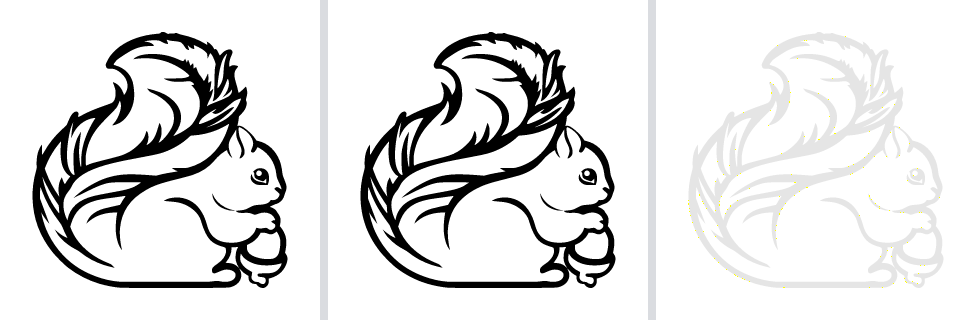
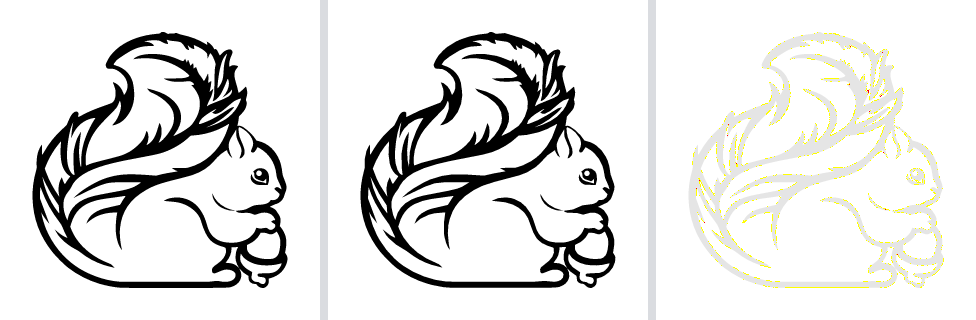
perf: simplify output rings, cutting payload 27% and generation 37%
Every point that survived curve flattening was emitted, including the
ones a boolean union left collinear. simplifyClosedRing runs RDP over
finished rings in emit.ts at 0.05 output pixels, scaled by the fit so the
error stays constant however large the icon is asked for.

  points  86,926 -> 46,477   payload  1922KB -> 1412KB
  exportToSvg on the full library  ~1230ms -> ~780ms

This is not the flattening tolerance and must not be confused with it.
That one feeds polygon-clipping, which is fragile on near-collinear
input, and gates stroke join wedges, so it decides topology. This one
only drops points from a ring whose shape is already settled.

The tolerance was swept across the whole corpus rather than borrowed:
0.02 is free but buys no time, 0.1 barely improves on 0.05, and past 0.2
the error climbs while the payload stops shrinking. The table is in the
Architecture page so the next person does not repeat the sweep.

Cost: worst shape error 0.10% -> 0.13% against a 2% gate. Six of 261
icons moved, five of them by under 0.03%; 255 are still exactly zero. The
worst, Apigee, is a ring of curved strokes where the whole diff is edge
antialiasing.

No option for this, deliberately. 0.03 percentage points is not a
decision anyone can make, and iconScale already varies point density.

Two things the sweep ruled out, both recorded: a point cap would do
nothing (no production element reaches Excalidraw's own 1,536 budget),
[…]

diff --git a/src/utils/convert/simplify.ts b/src/utils/convert/simplify.ts
@@ -1,0 +1,126 @@
+/**
+ * Ramer-Douglas-Peucker simplification of an already-closed output ring.
+ *
+ * Runs after every boolean operation, deliberately. The flattening tolerance
+ * upstream of here also feeds `polygon-clipping` - which is documented as
+ * fragile on near-collinear input - and gates stroke join wedges, so it is not
+ * an output-size knob. This is: it only ever removes points from a finished
+ * ring, and cannot change any topology decision that has already been made.
+ */
+import type { Point } from '../regions/primitives';
+
+/**
+ * How far a simplified ring may deviate from the flattened one, in output
+ * pixels at the default 48px icon size.
+ *
+ * Chosen by sweeping the whole corpus through the fidelity harness:
+ *
+ * ```
+ *   tolerance   points    payload   generation   worst shape error
+ *   0 (off)     86,926    1922 KB    ~1230 ms    0.10%
+ *   0.02        63,795    1630 KB    ~1215 ms    0.10%
+ *   0.05        46,477    1412 KB     ~780 ms    0.13%   <- here
+ *   0.10        34,150    1257 KB     ~637 ms    0.15%
+ *   0.20        27,020    1167 KB     ~587 ms    0.37%
+ * ```
+ *
+ * 0.05 is where the generation time falls off a cliff while the error is still
+ * antialiasing on curved edges rather than anything structural - 0.13% against
+ * a 2% gate. Past 0.1 the payload stops improving and the error starts
+ * climbing, so there is nothing to buy.
+ *
+ * Deliberately not exposed as an option. The difference between this and no
+ * simplification at all is 0.03 percentage points of shape error, which is
+ * invisible in the render; a control for that would be a question with no
+ * answer. `iconScale` already varies point density, because the tolerance
+ * below is divided by the fit scale.
+ */
+export const OUTPUT_SIMPLIFY_TOLERANCE_PX = 0.05;
+
+/** Perpendicular distance from `p` to the infinite line through `a` and `b`. */
+function deviation(p: Point, a: Point, b: Point): number {
+  const dx = b[0] - a[0];
+  const dy = b[1] - a[1];
+  const len = Math.hypot(dx, dy);
+  if (len === 0) return Math.hypot(p[0] - a[0], p[1] - a[1]);
+  return Math.abs((p[0] - a[0]) * dy - (p[1] - a[1]) * dx) / len;
+}
+
+/** RDP over `points[first..last]`, keeping both ends. */
+function rdp(points: Point[], first: number, last: number, tolerance: number, keep: boolean[]): void {
+  if (last <= first + 1) return;
+
+  let worst = 0;
+  let index = -1;
+  for (let i = first + 1; i < last; i++) {
+    const d = deviation(points[i], points[first], points[last]);
+    if (d > worst) {
+      worst = d;
+      index = i;
+    }
+  }
+
+  if (worst <= tolerance || index < 0) return;
+
+  keep[index] = true;
+  rdp(points, first, index, tolerance, keep);
+  rdp(points, index, last, tolerance, keep);
+}
+
+/**
+ * Simplifies a closed ring, in the ring's own units.
+ *
+ * The ring must already be closed (first point repeated as last) and is
+ * returned closed. Three invariants the emitter depends on:
+ *
+ *  - never fewer than 4 distinct-plus-closing points, because Excalidraw's
+ *    `isValidPolygon` needs more than three and our `polygon: true` claims it;
+ *  - the closing point stays exactly equal to the first, because
+ *    `isPathALoop` is what makes Excalidraw fill the shape at all;
+ *  - a zero or negative tolerance is a no-op returning the input unchanged,
+ *    so the feature being off costs nothing.
+ *
+ * The seam is split at the vertex furthest from the start rather than at the
+ * start itself. RDP fixes its two endpoints, and on a closed ring those are
+ * the same point - which makes the first bisection degenerate and biases the
+ * result towards whichever vertex the boolean engine happened to emit first.
+ */
+export function simplifyClosedRing(ring: Point[], tolerance: number): Point[] {
+  if (!(tolerance > 0) || ring.length <= 5) return ring;
+
+  // Drop the duplicated closing point; it is restored at the end.
+  const open = ring.slice(0, -1);
+  const n = open.length;
+  if (n < 4) return ring;
+
+  let far = 0;
+  let farDistance = -1;
+  for (let i = 1; i < n; i++) {
+    const d = Math.hypot(open[i][0] - open[0][0], open[i][1] - open[0][1]);
+    if (d > farDistance) {
+      farDistance = d;
+      far = i;
+    }
+  }
+
+  const keep = new Array<boolean>(n).fill(false);
+  keep[0] = true;
+  keep[far] = true;
+  rdp(open, 0, far, tolerance, keep);
+
+  // Second arc wraps past the end, so it is walked on a rotated copy.
+  const tail = [...open.slice(far), open[0]];
+  const tailKeep = new Array<boolean>(tail.length).fill(false);
+  tailKeep[0] = true;
+  tailKeep[tail.length - 1] = true;
+  rdp(tail, 0, tail.length - 1, tolerance, tailKeep);
+  for (let i = 1; i < tail.length - 1; i++) {
+    if (tailKeep[i]) keep[(far + i) % n] = true;
+  }
+
+  const out = open.filter((_, i) => keep[i]);
+  if (out.length < 4) return ring;
+
+  out.push(out[0]);
+  return out;
+}

diff --git a/src/utils/convert/simplify.test.ts b/src/utils/convert/simplify.test.ts
@@ -1,0 +1,53 @@
+import { describe, expect, it } from 'vitest';
+import { simplifyClosedRing } from './simplify';
+import type { Point } from '../regions/primitives';
+
+/** A closed ring: first point repeated as last, as the emitter produces. */
+const closed = (pts: Point[]): Point[] => [...pts, pts[0]];
+
+/** A square with `n` evenly spaced redundant points along its top edge. */
+const squareWithPaddedTop = (n: number): Point[] => {
+  const top: Point[] = Array.from({ length: n }, (_, i) => [((i + 1) * 100) / (n + 1), 0]);
+  return closed([[0, 0], ...top, [100, 0], [100, 100], [0, 100]]);
+};
+
+const isClosed = (r: Point[]) => r[0][0] === r[r.length - 1][0] && r[0][1] === r[r.length - 1][1];
+
+describe('simplifyClosedRing', () => {
+  it('drops points that sit on a straight edge', () => {
+    const result = simplifyClosedRing(squareWithPaddedTop(20), 0.01);
+    expect(result.length).toBeLessThan(8);
+    expect(isClosed(result)).toBe(true);
+  });
+
+  it('keeps a point that deviates by more than the tolerance', () => {
+    const spike = closed([[0, 0], [50, 5], [100, 0], [100, 100], [0, 100]]);
+    expect(simplifyClosedRing(spike, 1)).toHaveLength(spike.length);
+  });
+
+  it('is a no-op at zero tolerance, so the feature off costs nothing', () => {
+    const ring = squareWithPaddedTop(20);
+    expect(simplifyClosedRing(ring, 0)).toBe(ring);
+  });
+
+  it('leaves small rings alone', () => {
+    const triangle = closed([[0, 0], [10, 0], [5, 10]]);
+    expect(simplifyClosedRing(triangle, 100)).toBe(triangle);
+  });
+
+  // Both are load-bearing downstream: Excalidraw only fills a `line` when
+  // isPathALoop holds, and our `polygon: true` claims isValidPolygon, which
+  // needs more than three points.
+  it('never returns fewer than 4 points, however coarse the tolerance', () => {
+    const result = simplifyClosedRing(squareWithPaddedTop(40), 1e6);
+    expect(result.length).toBeGreaterThanOrEqual(4);
+    expect(isClosed(result)).toBe(true);
+  });
+
+  it('keeps every surviving point in its original order', () => {
+    const ring = squareWithPaddedTop(12);
+    const result = simplifyClosedRing(ring, 0.01);
+    const positions = result.slice(0, -1).map(p => ring.findIndex(q => q[0] === p[0] && q[1] === p[1]));
+    expect(positions).toEqual([...positions].sort((a, b) => a - b));
+  });
+});

diff --git a/src/utils/convert/emit.ts b/src/utils/convert/emit.ts
@@ -7,6 +7,7 @@
  */
 import type { ExcalidrawElement } from '../../types';
 import { closeRing, boundsOf } from '../svg/geometry';
+import { OUTPUT_SIMPLIFY_TOLERANCE_PX, simplifyClosedRing } from './simplify';
 import type { RawShape } from './rawShape';
 
 export function generateRandomId(): string {
@@ -128,7 +129,15 @@ export function rawShapesToElements(
     // space, where a micro-unit gap really is closed - hence 1e-6 rather than
     // the 1e-9 the boolean engine uses upstream.
     const wantsFill = !!shape.fill && shape.fill !== 'transparent';
-    const absPoints = wantsFill ? closeRing(shape.absPoints, 1e-6) : shape.absPoints;
+    const closed = wantsFill ? closeRing(shape.absPoints, 1e-6) : shape.absPoints;
+
+    // Simplified before the bounds are taken, so the element box stays tight
+    // around the points that actually survive. Tolerance converts from output
+    // units into the source's own units, the same way the flattening tolerance
+    // does, so the error stays constant in pixels at any `iconScale`.
+    const absPoints = wantsFill
+      ? simplifyClosedRing(closed, OUTPUT_SIMPLIFY_TOLERANCE_PX / scale)
+      : closed;
 
     const { minX, minY, maxX, maxY } = boundsOf(absPoints);
 

diff --git a/wiki/Architecture.md b/wiki/Architecture.md
@@ -28,7 +28,7 @@ raw SVG string
    │      resolve visibility region (clip-path + mask, intersected)
    │      FILL   -> resolveFilledRegions() -> bridgeHoles() -> ring
    │      STROKE -> strokeToRegion()       -> filled area
-   │      clip each result, emit as Excalidraw `line` / `ellipse`
+   │      clip each result, simplify the ring, emit as `line` / `ellipse`
    │
    └─ createExcalidrawItem()                  src/utils/excalidrawGenerator.ts
         card + label layout, then
@@ -196,6 +196,48 @@ tessellation.
 The old constant tolerance plus a Ramer–Douglas–Peucker pass at 0.2 user units
 (0.8 % of a 24-unit artboard) visibly polygonised every circle and got twice as
 bad each time the icon was scaled up.
+
+There *is* an RDP pass again, but at the other end of the pipeline and for a
+different reason — see §11.
+
+### 11. Output rings are simplified, after every boolean
+
+`simplifyClosedRing()` runs in `emit.ts`, on finished rings only. This is
+deliberately **not** the flattening tolerance of §6: that one feeds
+`polygon-clipping` (fragile on near-collinear input, §10) and gates stroke join
+wedges, so it changes topology decisions. This one only removes points from a
+ring whose shape is already decided, so it cannot.
+
+`OUTPUT_SIMPLIFY_TOLERANCE_PX = 0.05`, divided by the fit scale so the error
+stays constant in pixels. Picked by sweeping the corpus through the harness:
+
+| tolerance | points | payload | generation | worst error |
+|---|---|---|---|---|
+| off | 86,926 | 1922 KB | ~1230 ms | 0.10 % |
+| 0.02 | 63,795 | 1630 KB | ~1215 ms | 0.10 % |
+| **0.05** | **46,477** | **1412 KB** | **~780 ms** | **0.13 %** |
+| 0.10 | 34,150 | 1257 KB | ~637 ms | 0.15 % |
+| 0.20 | 27,020 | 1167 KB | ~587 ms | 0.37 % |
+
+Two things that sweep settled, worth not re-deriving:
+
+- **A point cap would do nothing.** No production element exceeds 1,536 points
+  (Excalidraw's own bucket-fill budget), and only 30 % of points live in
+  elements above 192. The cost is spread, not in a tail.
+- **Roughly half the generation cost is per-element, not per-point.** Time
+  floors at ~587 ms however far the points are cut, against 1,764 elements.
+  Cutting element count would mean merging same-colour shapes within an icon,
+  which would destroy editability — users select parts of an icon. Not worth it.
+
+There is no user-facing control for this and there should not be. The
+difference between 0.05 and no simplification is 0.03 percentage points of
+shape error against a 2 % gate, invisible in the render. `iconScale` already
+varies point density, because both tolerances divide by the fit scale.
+
+Three invariants the emitter depends on, all enforced in `simplifyClosedRing`:
+never fewer than 4 points (`isValidPolygon`, which our `polygon: true` claims),
+first point still exactly equal to last (`isPathALoop`, which is what makes
+Excalidraw fill at all), and a zero tolerance is an identity function.
 
 ### 7. `clip-path` and `mask` are real geometry, intersected across nesting
 

diff --git a/README.md b/README.md
@@ -45,11 +45,11 @@ results are identical either way. `--help` lists every flag.
 
 | suite | files | mean shape error | worst | worst placement | failing |
 |---|---|---|---|---|---|
-| icons | 261 | **0.000 %** | 0.10 % | 0.200 px | **0** |
+| icons | 261 | **0.001 %** | 0.13 % | 0.200 px | **0** |
 | torture | 30 | 3.06 % | 58 % | — | 4 (expected) |
 
 That is all three sets: 216 legacy-gcp, 26 category-icons, 19 unique-icons.
-258 of the 261 are at *exactly* 0.00 %.
+255 of the 261 are at *exactly* 0.00 %.
 
 `pnpm test` keeps these figures honest — it fails if the corpus on disk, the
 baseline and the totals quoted on the website ever disagree.
